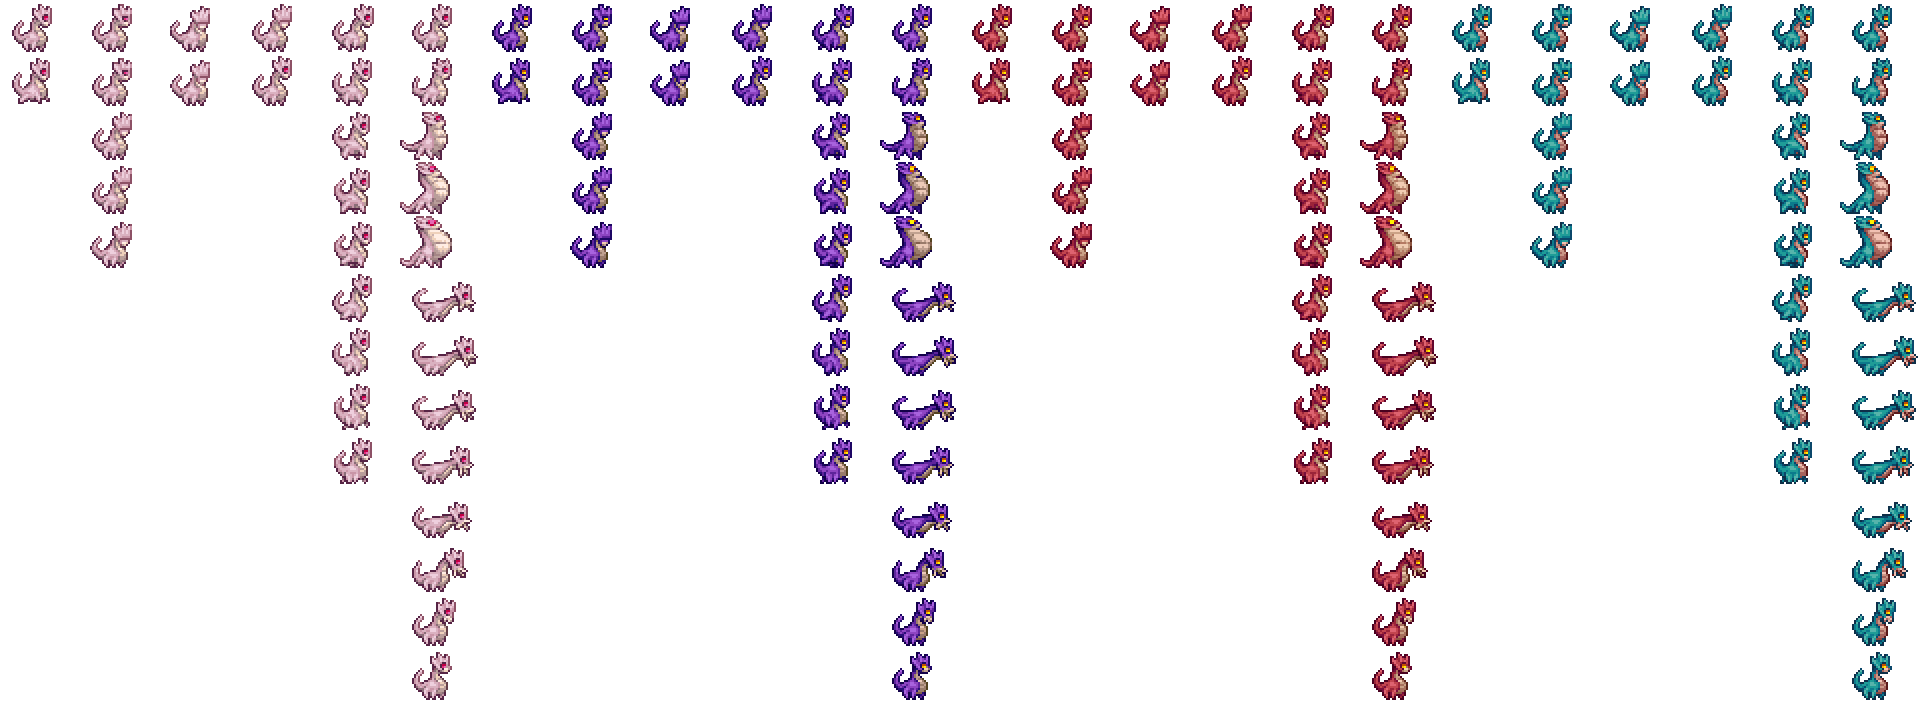
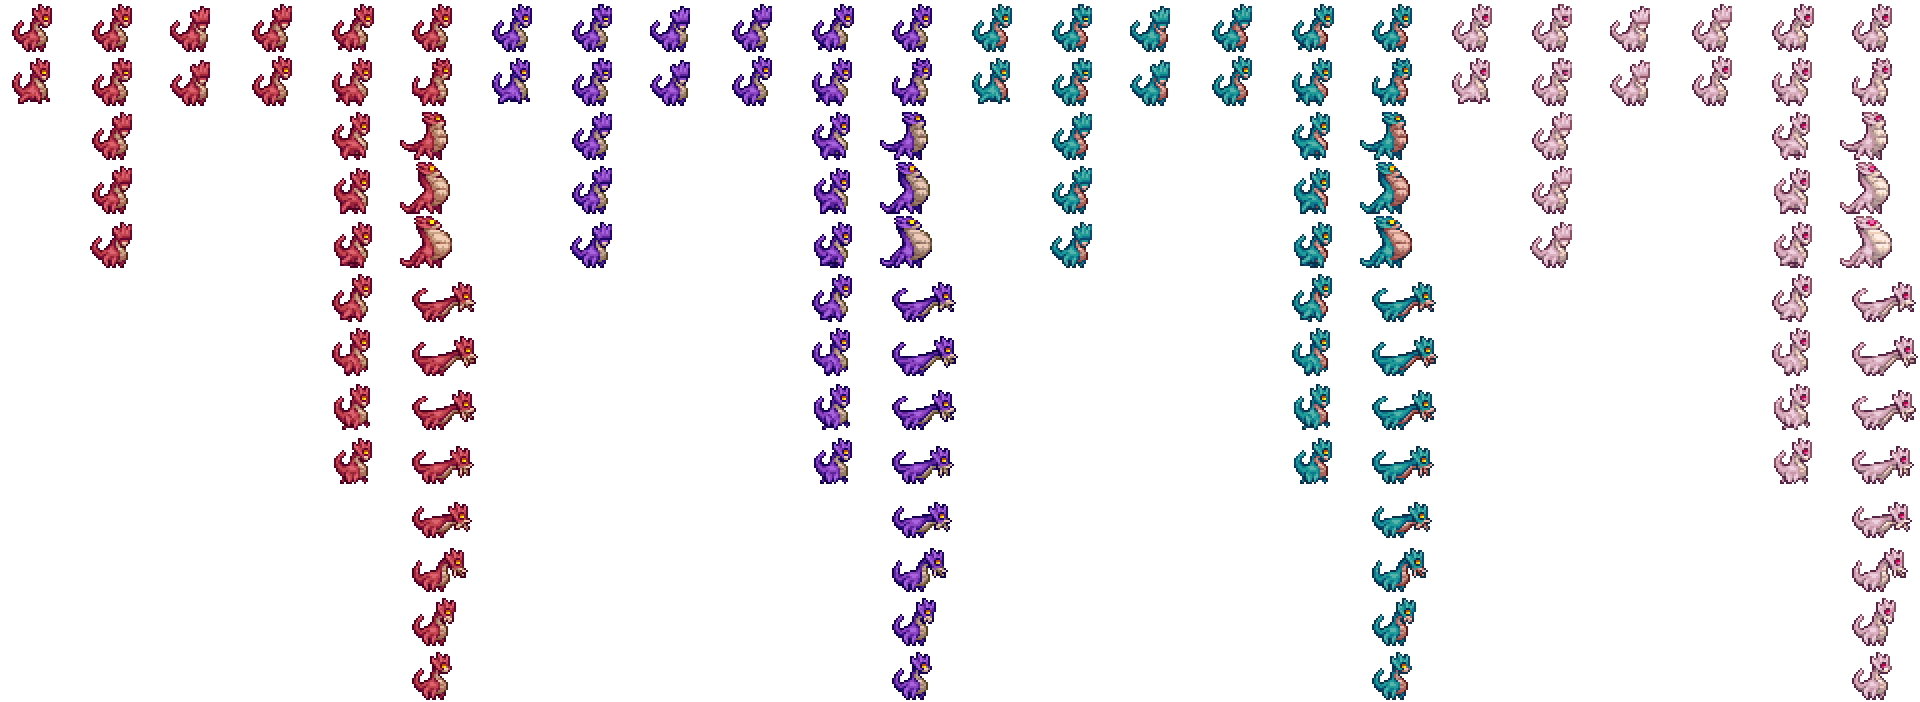
Dunce Crab entry fix

diff --git a/Content/Underground/NPCs/Wheezer.cs b/Content/Underground/NPCs/Wheezer.cs
@@ -64,7 +64,7 @@ public class Wheezer : ModNPC
 
 	public override void OnSpawn(IEntitySource source)
 	{
-		_style = (byte)(Main.rand.NextBool(10) ? 0 : Main.rand.Next(1, 4));
+		_style = (byte)(Main.rand.NextBool(10) ? 3 : Main.rand.Next(0, 3));
 		NPC.netUpdate = true;
 	}
 
@@ -283,9 +283,9 @@ public class Wheezer : ModNPC
 		string name = _style switch
 		{
 			1 => "Purple",
-			2 => "Red",
-			3 => "Teal",
-			_ => "Albino"
+			2 => "Teal",
+			3 => "Albino",
+			_ => "Red"
 		};
 
 		for (int i = 1; i < 5; i++)
@@ -314,10 +314,7 @@ public class Wheezer : ModNPC
 	public override void FindFrame(int frameHeight)
 	{
 		if (NPC.IsABestiaryIconDummy)
-		{
 			ChangeState(State.Walk);
-			_style = 2;
-		}
 
 		bool canLoop = (State)Animation is State.Walk;
 
